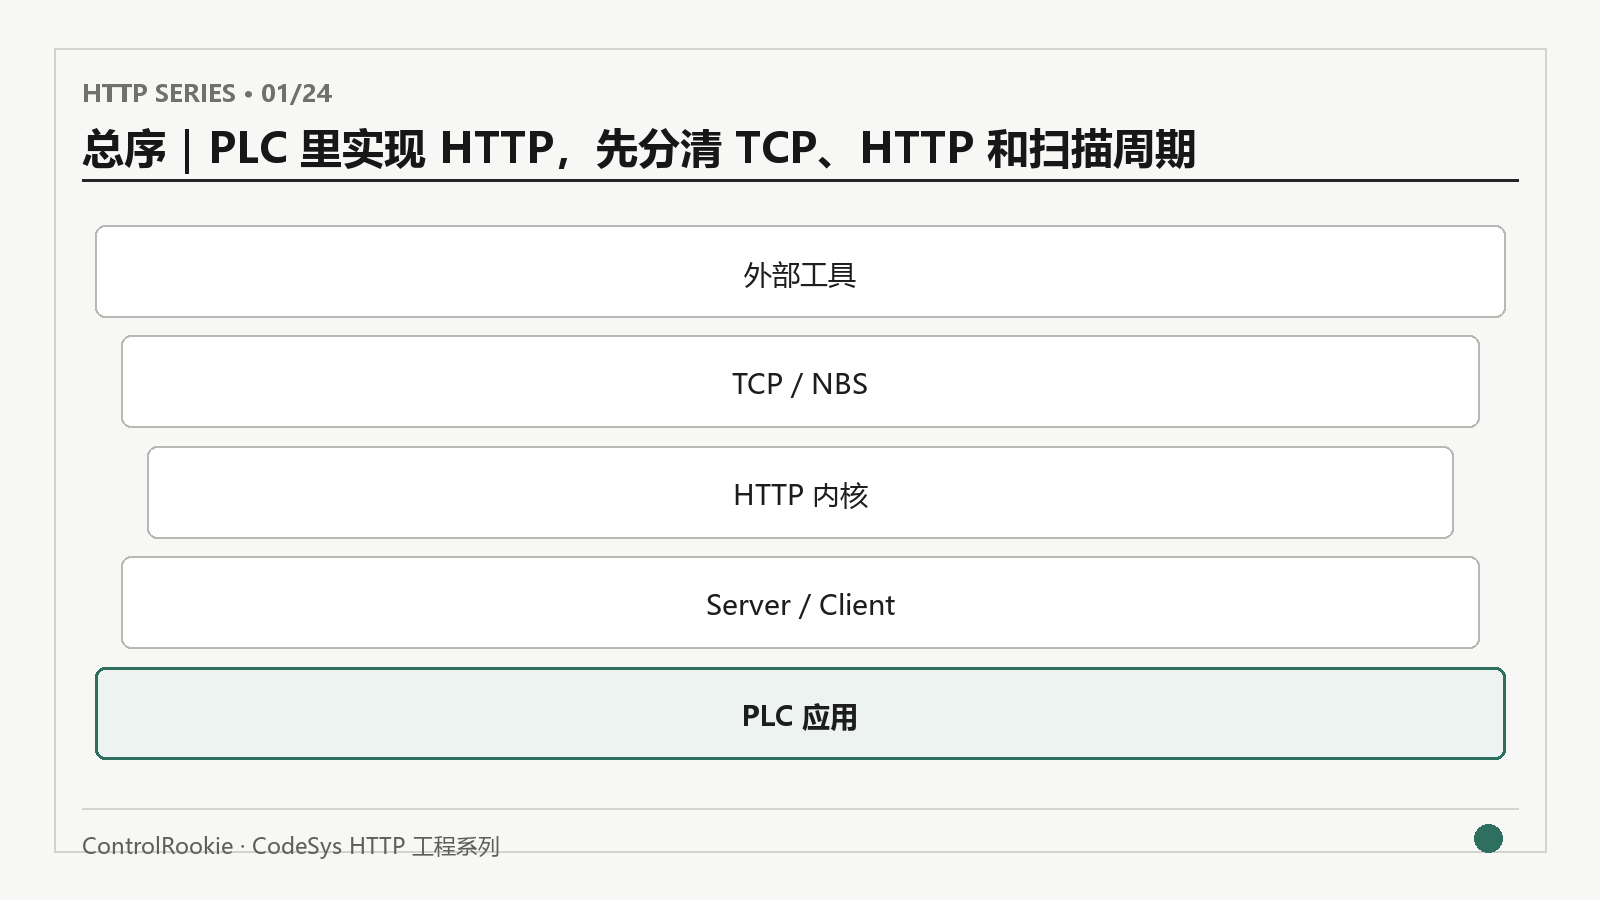
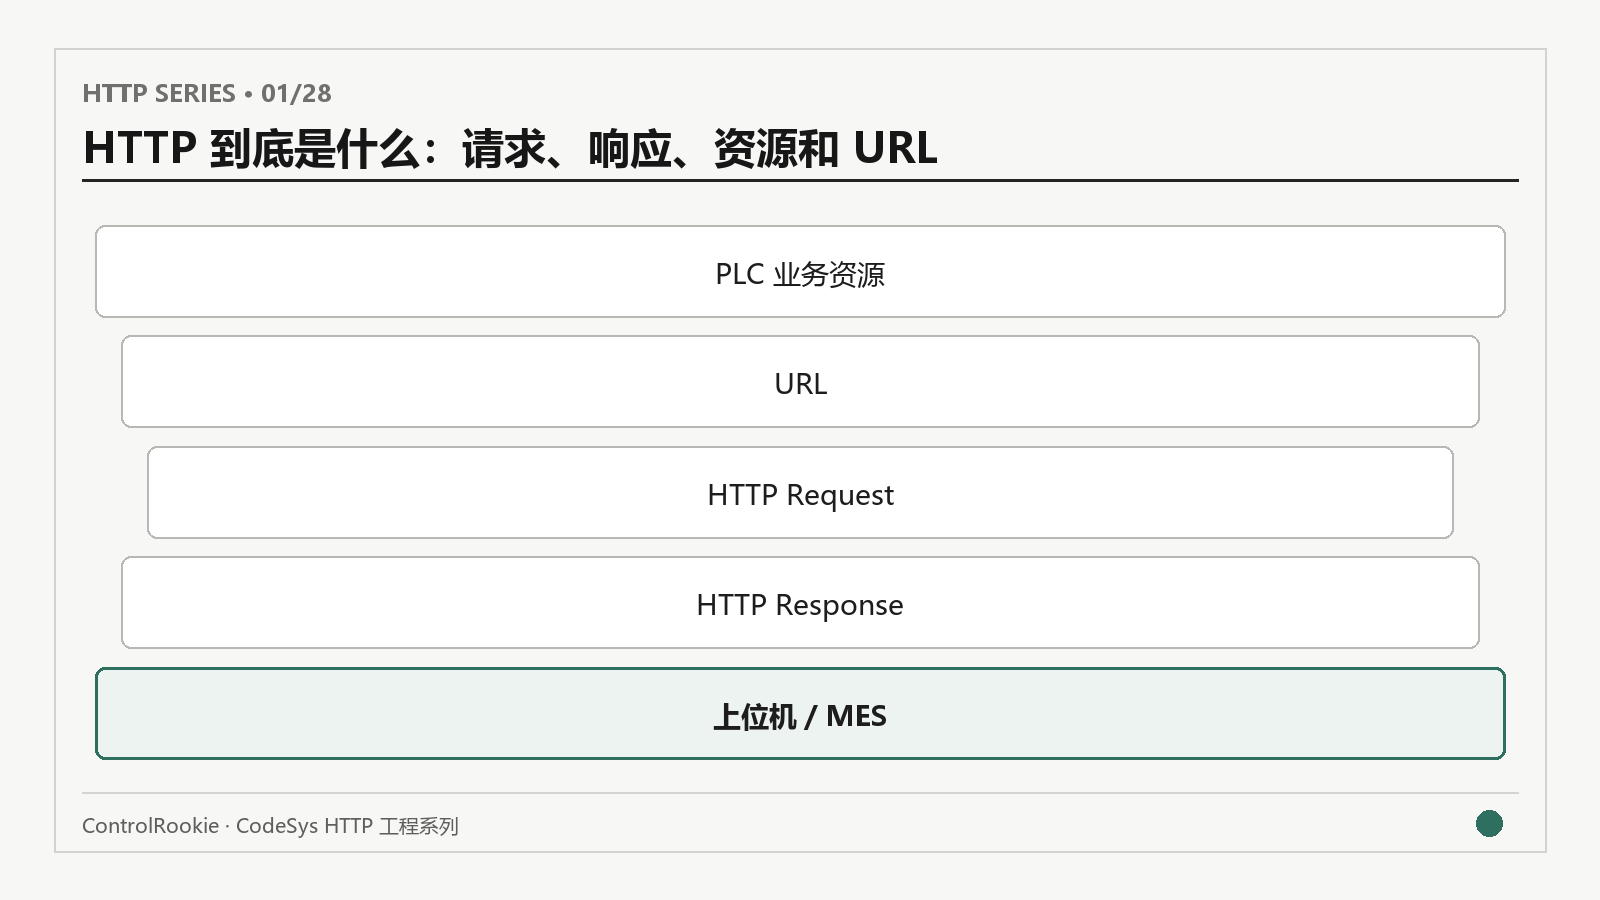
publish: codesys-http-01

diff --git a/articles/codesys-http-foundation-01/index.html b/articles/codesys-http-foundation-01/index.html
@@ -3,8 +3,8 @@
 <head>
   <meta charset="utf-8">
   <meta name="viewport" content="width=device-width, initial-scale=1">
-  <title>第01篇｜总序｜PLC 里实现 HTTP，先分清 TCP、HTTP 和扫描周期 | ControlRookie</title>
-  <meta name="description" content="从 TCP 字节流、HTTP 消息边界、PLC 扫描周期和连接生命周期建立可验证的工程坐标。">
+  <title>HTTP 到底是什么：请求、响应、资源和 URL | ControlRookie</title>
+  <meta name="description" content="从一笔真实的读取与写入事务出发，讲清 Client、Server、资源、URL、请求、响应、方法、状态码、Header 和 Body。">
   <meta name="author" content="ControlRookie">
   <meta name="robots" content="index, follow">
   <meta name="theme-color" content="#050505">
@@ -14,14 +14,14 @@
   <link rel="manifest" href="../../site.webmanifest">
   <meta property="og:type" content="article">
   <meta property="og:site_name" content="ControlRookie">
-  <meta property="og:title" content="第01篇｜总序｜PLC 里实现 HTTP，先分清 TCP、HTTP 和扫描周期">
-  <meta property="og:description" content="从 TCP 字节流、HTTP 消息边界、PLC 扫描周期和连接生命周期建立可验证的工程坐标。">
+  <meta property="og:title" content="HTTP 到底是什么：请求、响应、资源和 URL">
+  <meta property="og:description" content="从一笔真实的读取与写入事务出发，讲清 Client、Server、资源、URL、请求、响应、方法、状态码、Header 和 Body。">
   <meta property="og:url" content="https://benpeng0205.github.io/articles/codesys-http-foundation-01/">
   <meta property="og:image" content="https://benpeng0205.github.io/assets/images/brand/controlrookie-og.png">
   <meta property="og:locale" content="zh_CN">
   <meta name="twitter:card" content="summary_large_image">
-  <meta name="twitter:title" content="第01篇｜总序｜PLC 里实现 HTTP，先分清 TCP、HTTP 和扫描周期">
-  <meta name="twitter:description" content="从 TCP 字节流、HTTP 消息边界、PLC 扫描周期和连接生命周期建立可验证的工程坐标。">
+  <meta name="twitter:title" content="HTTP 到底是什么：请求、响应、资源和 URL">
+  <meta name="twitter:description" content="从一笔真实的读取与写入事务出发，讲清 Client、Server、资源、URL、请求、响应、方法、状态码、Header 和 Body。">
   <meta name="twitter:image" content="https://benpeng0205.github.io/assets/images/brand/controlrookie-og.png">
   <link rel="stylesheet" href="../../styles/site.css">
 </head>
@@ -82,13 +82,13 @@
             <a href="../../index.html#articles-http">基础认知</a>
           </nav>
           <header class="article-hero">
-            <h1>第01篇｜总序｜PLC 里实现 HTTP，先分清 TCP、HTTP 和扫描周期</h1>
+            <h1>HTTP 到底是什么：请求、响应、资源和 URL</h1>
             <div class="article-meta">
               <span>2026-07-18</span>
-              <span>约 5 分钟阅读</span>
-              <span>第1篇/共24篇</span>
+              <span>约 9 分钟阅读</span>
+              <span>第1篇/共28篇</span>
             </div>
-            <p class="article-summary">从 TCP 字节流、HTTP 消息边界、PLC 扫描周期和连接生命周期建立可验证的工程坐标。</p>
+            <p class="article-summary">从一笔真实的读取与写入事务出发，讲清 Client、Server、资源、URL、请求、响应、方法、状态码、Header 和 Body。</p>
           </header>
           <aside class="article-toc" aria-label="文章目录">
             <button class="article-toc-toggle" type="button" aria-expanded="false" aria-controls="articleTocBody">
@@ -97,72 +97,114 @@
             </button>
             <div class="article-toc-body" id="articleTocBody">
               <strong>目录</strong>
-              <ol><li><a href="#section-9f303d09">现场问题</a></li><li><a href="#section-c769c1e4">先给结论</a></li><li><a href="#section-5c8efeeb">把对象和边界分开</a></li><li><a href="#section-d987e293">代码为什么这样组织</a></li><li><a href="#section-8437c6eb">验证路径</a></li><li><a href="#section-c1768cb2">常见误判</a></li><li><a href="#section-297346c3">本篇结论</a></li><li><a href="#section-0fd034f8">系列导航</a></li></ol>
+              <ol><li><a href="#section-0d70135c">适合谁收藏</a></li><li><a href="#section-9f303d09">现场问题</a></li><li><a href="#section-c769c1e4">先给结论</a></li><li><a href="#section-5c8efeeb">把对象和边界分开</a></li><li><a href="#section-08f334f9">把一问一答逐行读完</a></li><li><a href="#section-4af56480">从协议约束到代码职责</a></li><li><a href="#section-29eb6b41">本篇核心源码片段</a></li><li><a href="#section-8437c6eb">验证路径</a></li><li><a href="#section-c1768cb2">常见误判</a></li><li><a href="#section-6f65a855">这一篇你最该记住</a></li><li><a href="#section-0fd034f8">系列导航</a></li></ol>
             </div>
           </aside>
           <div class="article-main">
             <div class="article-content">
-              <blockquote>TCP 连接成功、端口可以访问，只能证明字节通道成立。PLC 要稳定处理 HTTP，还必须把消息边界、扫描周期、连接生命周期和诊断证据一起设计。</blockquote>
-<blockquote>基础认知，第 1/2 篇；主系列第 01/24 篇。</blockquote>
+              <blockquote>先不写 PLC 状态机，也不背术语。从上位机读取设备状态这个需求出发，把 Client、Server、资源、URL、请求、响应、方法、状态码、Header 和 Body 放进同一笔真实对话。</blockquote>
+<h2 id="section-0d70135c">适合谁收藏</h2>
+<ul><li>第一次系统理解 HTTP 的 PLC 工程师。</li><li>已经会调用通信功能块，但分不清 TCP 连通与 HTTP 完整事务的人。</li><li>需要建立后续 Server、Client 学习坐标的读者。</li></ul>
+<hr>
+<blockquote>基础认知，第 1/4 篇；主系列第 01/28 篇。</blockquote>
 <h2 id="section-9f303d09">现场问题</h2>
-<p>现场最常见的误判，是通信工具显示 Connected，PLC 也拿到了若干字节，于是就把功能判定为已经跑通。真正接入浏览器、curl 或上位机后，问题才集中出现：Header 被拆成两次读取，Body 晚几个周期到达，响应没有明确长度，对端一直等待。</p>
-<p>这不是 HTTP 语法知识不足，而是把 TCP 字节流和 HTTP 消息混成了一个对象。PLC 的周期执行模型会把这个错误放大，因为一次事务天然跨越多个扫描周期。</p>
+<p>PLC 里有运行状态、产量和报警记录，上位机需要读取它们。双方当然可以私下约定 <code>READ_STATUS</code> 和 <code>1,1250,0</code>，但一旦增加查询条件、写入参数、错误结果和不同数据格式，这套私有字符串就会迅速失去边界。</p>
+<p>HTTP 解决的不是“怎样控制 PLC”，而是不同程序怎样用统一格式描述一件事：请求方要操作哪个资源、准备做什么、携带了什么内容；响应方是否处理成功、返回了什么、消息到哪里结束。</p>
 <h2 id="section-c769c1e4">先给结论</h2>
-<p>本系列只把完整且可验证的 HTTP 事务交给应用层。NBS 负责 TCP，协议内核负责边界，Server 和 Client 负责各自生命周期，业务程序只处理已经完成的请求或响应。</p>
-<figure><img src="../../assets/articles/codesys-http-foundation-01/第01篇_核心架构图.png" alt="总序｜PLC 里实现 HTTP，先分清 TCP、HTTP 和扫描周期"><figcaption>总序｜PLC 里实现 HTTP，先分清 TCP、HTTP 和扫描周期</figcaption></figure>
-<p>这张图只压缩本篇的判断路径。读图时先找输入边界，再看状态怎样推进，最后确认哪个输出能够作为验收证据。</p>
+<p>HTTP 是应用层的请求/响应协议。Client 主动发送一条完整请求，Server 针对一个资源返回一条完整响应；URL 标识资源，方法表达操作意图，状态码表达处理结果，Header 描述消息，Body 承载内容。</p>
+<figure><img src="../../assets/articles/codesys-http-foundation-01/第01篇_核心架构图.png" alt="HTTP 到底是什么：请求、响应、资源和 URL"><figcaption>HTTP 到底是什么：请求、响应、资源和 URL</figcaption></figure>
+<h3 id="section-a3177d68">读图重点</h3>
+<p>这张图只压缩本篇的判断路径。读图时先找“Client / Server”对应的输入边界，再沿着“状态码、Header、可选 Body”检查状态怎样推进，最后用“说明处理结果以及返回什么”确认输出是否已经形成验收证据。</p>
 <h2 id="section-5c8efeeb">把对象和边界分开</h2>
 <div class="article-table-wrap"><table>
 <thead><tr><th>对象或阶段</th><th>工程职责</th><th>现场观察点</th></tr></thead>
 <tbody>
-<tr><td>TCP/NBS</td><td>连接、监听、Read、Write、Close</td><td>句柄、ready、NBS error</td></tr>
-<tr><td>HTTP 内核</td><td>start-line、Header、Body 边界</td><td>解析状态、长度、协议错误</td></tr>
-<tr><td>角色状态机</td><td>Server 接入或 Client 主动请求</td><td>状态、超时、连接策略</td></tr>
-<tr><td>应用层</td><td>消费完整请求或响应</td><td>业务结果和计数</td></tr>
+<tr><td>Client / Server</td><td>发起请求 / 返回响应</td><td>同一台 PLC 可以同时承担两种角色</td></tr>
+<tr><td>Resource / URL</td><td>被操作的对象 / 对象地址</td><td><code>/api/status</code> 标识设备状态资源</td></tr>
+<tr><td>Request</td><td>方法、目标、Header、可选 Body</td><td>说明想做什么以及携带什么</td></tr>
+<tr><td>Response</td><td>状态码、Header、可选 Body</td><td>说明处理结果以及返回什么</td></tr>
 </tbody></table></div>
-<h2 id="section-d987e293">代码为什么这样组织</h2>
-<p>工程里把最大报文、Header、Body、连接槽位、读写分片和超时全部做成显式常量。它们不是随手填写的数字，而是协议栈的资源边界。以当前实现为例，消息上限 4095 字节、Header 上限 2047 字节、Body 上限 1023 字节、Server 最多 4 个连接槽位。</p>
-<p>这些边界决定了教程的结论不能无限外推。本系列讨论明文 HTTP/1.1、Content-Length、入站 chunked、短连接和受控顺序 keep-alive；不把 HTTPS、认证、HTTP/2、pipeline 或连接池包装成已经实现的能力。</p>
-<p>下面是与本篇直接相关的真实 ST 连续片段。代码保持源文件原文，不做重写，不用伪代码替代。</p>
-<div class="code-card"><small>iecst</small><pre><code>VAR_GLOBAL CONSTANT
-    cnDefaultServerPort   : UINT := 8088;                  // 全局协议常量。
-    cnMaxClientSlots      : UINT := 4;                     // 全局协议常量。
-    cnRxBufferSize        : UINT := 4095;                  // 全局协议常量。
-    cnTxBufferSize        : UINT := 4095;                  // 全局协议常量。
-    cnMaxMessageSize      : UINT := 4095;                  // 全局协议常量。
-    cnMaxHeaderSize       : UINT := 2047;                  // 全局协议常量。
-    cnMaxBodySize         : UINT := 1023;                  // 全局协议常量。
-    cnMaxTargetLen        : UINT := 255;                   // 全局协议常量。
-    cnMaxHostLen          : UINT := 128;                   // 全局协议常量。
-    cnMaxHeaderValueLen   : UINT := 255;                   // 全局协议常量。
-    cnMaxChunkLineLen     : UINT := 32;                    // 全局协议常量。
-    cnTcpConnectTimeoutUs : UDINT := 5000000;              // 全局协议常量。
-    cnClientTimeoutMs     : UDINT := 8000;                 // 全局协议常量。
-    cnServerConnectionMs  : UDINT := 8000;                 // 全局协议常量。
-    cnWriteTimeout        : TIME := T#5S;                  // 全局协议常量。
-    cnTcpReadChunkSize    : UINT := 240;                   // NBS 单次 TCP_Read 字节数，避开部分运行时 255 字节边界。
-    cnTcpWriteChunkSize   : UINT := 240;                   // NBS 单次 TCP_Write 字节数，大响应按 TCP 字节流分批发送。
-    cnTcpReadMaxErrorCount: UINT := 3;                     // TCP_Read 连续错误滤波次数，避免大报文半包接收被瞬时读错误误杀。
-    cnDefaultContentType  : STRING(32) := &#x27;text/plain&#x27;;    // 全局协议常量。
-    cnDefaultPath         : STRING(8) := &#x27;/&#x27;;              // 全局协议常量。
-END_VAR</code></pre></div>
-<p>源码阅读时不要只找某个 TRUE。先确认输入是否被锁存，再看状态和长度怎样变化，最后检查错误出口是否保留了足够诊断信息。</p>
+<h2 id="section-08f334f9">把一问一答逐行读完</h2>
+<p>上位机读取 PLC 状态时，可以发送：</p>
+<div class="code-card"><small>http</small><pre><code>GET /api/status HTTP/1.1
+Host: 192.168.1.20:8088
+Connection: close
+</code></pre></div>
+<p>第一行表示“使用 HTTP/1.1，以 GET 方式读取 <code>/api/status</code> 资源”。<code>Host</code> 指明本次请求对应的主机；空行表示 Header 到此结束。这个 GET 没有 Body。</p>
+<p>PLC 返回：</p>
+<div class="code-card"><small>http</small><pre><code>HTTP/1.1 200 OK
+Content-Type: text/plain
+Content-Length: 7
+Connection: close
+
+running</code></pre></div>
+<p>状态码 200 表示这一条请求已经成功处理。<code>Content-Type</code> 说明 Body 是普通文本，<code>Content-Length: 7</code> 说明 Body 正好是 7 个字节。<code>running</code> 才是返回内容。</p>
+<p>写入设定值时，消息会多出 Body：</p>
+<div class="code-card"><small>http</small><pre><code>POST /api/setpoint HTTP/1.1
+Host: 192.168.1.20:8088
+Content-Type: application/json
+Content-Length: 15
+Connection: close
+
+{&quot;value&quot;:125.5}</code></pre></div>
+<p>JSON 只是 Body 的一种数据格式。TCP 负责传字节，HTTP 负责定义请求和响应，JSON 负责表示 Body 内的数据，PLC 应用负责决定这份数据能否改变设定值。四者不能互相替代。</p>
+<h2 id="section-4af56480">从协议约束到代码职责</h2>
+<h3 id="section-6ca2a2b2">协议约束</h3>
+<p>HTTP 是应用层的请求/响应协议。Client 主动发送一条完整请求，Server 针对一个资源返回一条完整响应；URL 标识资源，方法表达操作意图，状态码表达处理结果，Header 描述消息，Body 承载内容。 这条结论先限定消息什么时候成立，再限定哪个角色可以消费结果。若绕过协议边界直接驱动业务，半包、超时、重复执行和连接残留就会进入应用层。</p>
+<h3 id="section-7c6b9db9">工程抽象</h3>
+<p>请求第一行由方法、请求目标和 HTTP 版本组成，例如 <code>GET /api/status HTTP/1.1</code>。Header 结束后必须有空行；如果请求带 Body，消息还要用 Content-Length 或 Transfer-Encoding 说明 Body 边界。响应第一行改为版本、状态码和原因短语，例如 <code>HTTP/1.1 200 OK</code>。</p>
+<p>状态码不是网络状态。TCP 已连接后仍可能收到 400，说明通道成立但请求格式不合法；也可能收到 404，说明请求合法但资源不存在。只有把传输、协议和业务结果分开，后面的 PLC 状态机才不会只剩一个含义模糊的 <code>bError</code>。</p>
+<ul><li><strong>Client / Server</strong>：工程职责是“发起请求 / 返回响应”。它不能只停留在命名层面，运行时必须能通过“同一台 PLC 可以同时承担两种角色”观察到输入、状态或结果；否则这一层即使有代码，也没有形成可验证边界。</li><li><strong>Resource / URL</strong>：工程职责是“被操作的对象 / 对象地址”。它不能只停留在命名层面，运行时必须能通过“<code>/api/status</code> 标识设备状态资源”观察到输入、状态或结果；否则这一层即使有代码，也没有形成可验证边界。</li><li><strong>Request</strong>：工程职责是“方法、目标、Header、可选 Body”。它不能只停留在命名层面，运行时必须能通过“说明想做什么以及携带什么”观察到输入、状态或结果；否则这一层即使有代码，也没有形成可验证边界。</li><li><strong>Response</strong>：工程职责是“状态码、Header、可选 Body”。它不能只停留在命名层面，运行时必须能通过“说明处理结果以及返回什么”观察到输入、状态或结果；否则这一层即使有代码，也没有形成可验证边界。</li></ul>
+<h3 id="section-3c2115b3">程序单元</h3>
+<p>本篇主证据来自 <code>ST_HttpRequest.st</code> 中以 <code>TYPE ST_HttpRequest</code> 为定位点的连续源码。这里不是为了展示语法，而是把协议约束落到确定程序单元：输入先进入结构体或缓冲区，状态机只在本周期处理可确认的部分，长度和结束条件决定能否前进，错误码与指标负责把失败原因带出对象边界。这样一来，“HTTP 管理请求与响应，不直接管理 PLC 变量。”可以在代码、在线变量和外部报文之间逐项对照，而不是依赖经验猜测。</p>
+<h2 id="section-29eb6b41">本篇核心源码片段</h2>
+<p>下面两段代码来自同一个真实文件 <code>ST_HttpRequest.st</code>，以 <code>TYPE ST_HttpRequest</code> 为中心连续截取，没有改写变量、删除分支或用伪代码替代。第一段用于确认入口与前置条件，第二段用于确认状态、边界和输出。核对时重点看“发起请求 / 返回响应”怎样进入对象，以及“说明处理结果以及返回什么”怎样证明本次处理已经结束。若两段之间的连续关系无法解释“Client 与 Server 是事务角色，不是设备的永久身份。”，就不能把局部代码截图当成实现证据。</p>
+<h3 id="section-602aff4b">片段一：入口、声明与前置条件</h3>
+<div class="code-card"><small>iecst</small><pre><code>TYPE ST_HttpRequest :
+STRUCT
+    eMethod           : E_HttpMethod := E_HttpMethod.iUnknown;
+    sMethod           : STRING(16) := &#x27;&#x27;;
+    sTarget           : STRING(GVL_Http.cnMaxTargetLen) := &#x27;&#x27;;
+    sVersion          : STRING(16) := &#x27;HTTP/1.1&#x27;;
+    sHost             : STRING(GVL_Http.cnMaxHostLen) := &#x27;&#x27;;
+    sContentType      : STRING(96) := &#x27;&#x27;;
+    sAuthorization    : STRING(160) := &#x27;&#x27;;</code></pre></div>
+<p>这一段先回答对象在什么输入和状态下开始工作。阅读时要核对变量的初值、长度上限和启动条件，不能只看某个布尔量是否变成 TRUE。</p>
+<h3 id="section-b9383c27">片段二：状态推进、边界与输出</h3>
+<div class="code-card"><small>iecst</small><pre><code>    sAdditionalHeader : STRING(GVL_Http.cnMaxHeaderSize) := &#x27;&#x27;;
+    sRawHeaders       : STRING(GVL_Http.cnMaxHeaderSize) := &#x27;&#x27;;
+    sBody             : STRING(GVL_Http.cnMaxBodySize) := &#x27;&#x27;;
+    bHasContentLength : BOOL := FALSE;
+    bTransferChunked  : BOOL := FALSE;
+    bConnectionClose  : BOOL := FALSE;
+    udiContentLength  : UDINT := 0;
+END_STRUCT
+END_TYPE</code></pre></div>
+<p>第二段继续展示同一连续源码范围。把它与第一段合起来，才能判断输入怎样被锁存、状态何时推进、边界何时满足，以及错误出口是否保留了足够诊断信息。</p>
 <h2 id="section-8437c6eb">验证路径</h2>
 <div class="article-table-wrap"><table>
 <thead><tr><th>场景</th><th>操作</th><th>通过口径</th></tr></thead>
 <tbody>
-<tr><td>字节层</td><td>确认监听句柄或主动连接句柄有效</td><td>不能据此宣布 HTTP 成功</td></tr>
-<tr><td>协议层</td><td>确认 Header 和 Body 边界完整</td><td>状态机才能进入完成态</td></tr>
-<tr><td>外部端</td><td>看到合法状态码、Header 和 Body</td><td>证明对端认可报文</td></tr>
-<tr><td>PLC 在线量</td><td>状态、错误、计数和快照一致</td><td>证明工程侧可诊断</td></tr>
+<tr><td>读取资源</td><td>手写 GET <code>/api/status</code></td><td>能指出方法、目标、Host 和空行</td></tr>
+<tr><td>写入内容</td><td>手写带 JSON Body 的 POST</td><td>Content-Type 与 Content-Length 正确</td></tr>
+<tr><td>解释响应</td><td>区分 200、400、404、500</td><td>不再把状态码当 TCP 状态</td></tr>
+<tr><td>角色判断</td><td>分别描述 PLC 主动访问与被访问</td><td>能正确判断 Client 和 Server</td></tr>
 </tbody></table></div>
-<p>验证结论分为三层：源码能够证明实现意图，离线用例能够证明确定输入下的边界行为，真实通信能够证明目标运行时与外部工具之间确实闭环。三层证据不能互相替代。</p>
+<h3 id="1">场景 1：读取资源</h3>
+<p>执行“手写 GET <code>/api/status</code>”前，先清理上一笔事务的完成脉冲、错误锁存和接收残留，再记录起始状态与计数。操作后同时观察外部报文、角色状态机和诊断量；只有三条证据共同指向“能指出方法、目标、Host 和空行”，这一场景才算通过。若只看到外部结果而内部状态未收口，应继续检查资源回收；若内部 Done 已出现而报文不完整，应回到消息边界重新取证。</p>
+<h3 id="2">场景 2：写入内容</h3>
+<p>执行“手写带 JSON Body 的 POST”前，先清理上一笔事务的完成脉冲、错误锁存和接收残留，再记录起始状态与计数。操作后同时观察外部报文、角色状态机和诊断量；只有三条证据共同指向“Content-Type 与 Content-Length 正确”，这一场景才算通过。若只看到外部结果而内部状态未收口，应继续检查资源回收；若内部 Done 已出现而报文不完整，应回到消息边界重新取证。</p>
+<h3 id="3">场景 3：解释响应</h3>
+<p>执行“区分 200、400、404、500”前，先清理上一笔事务的完成脉冲、错误锁存和接收残留，再记录起始状态与计数。操作后同时观察外部报文、角色状态机和诊断量；只有三条证据共同指向“不再把状态码当 TCP 状态”，这一场景才算通过。若只看到外部结果而内部状态未收口，应继续检查资源回收；若内部 Done 已出现而报文不完整，应回到消息边界重新取证。</p>
+<h3 id="4">场景 4：角色判断</h3>
+<p>执行“分别描述 PLC 主动访问与被访问”前，先清理上一笔事务的完成脉冲、错误锁存和接收残留，再记录起始状态与计数。操作后同时观察外部报文、角色状态机和诊断量；只有三条证据共同指向“能正确判断 Client 和 Server”，这一场景才算通过。若只看到外部结果而内部状态未收口，应继续检查资源回收；若内部 Done 已出现而报文不完整，应回到消息边界重新取证。</p>
 <h2 id="section-c1768cb2">常见误判</h2>
-<ul><li>把端口可连接写成 HTTP 协议栈已经通过，忽略消息边界和响应证据。</li><li>只在外部工具看结果，不核对 PLC 状态、错误码和计数是否同步变化。</li><li>把当前 4095 字节消息上限当成 HTTP 标准限制，而不是本工程资源取舍。</li></ul>
-<h2 id="section-297346c3">本篇结论</h2>
-<ul><li>连接成功不等于 HTTP 成功。</li><li>PLC 必须跨周期累积并判断消息边界。</li><li>任何发布结论都要同时给出外部证据和 PLC 在线证据。</li></ul>
+<ul><li>把 HTTP 说成一种传输方式，没有说明它组织的是请求和响应。</li><li>把 Client 和 Server 当成设备类型，而不是一笔事务中的角色。</li><li>背出 GET 和 200，却说不清资源、Header、Body 和状态码怎样组成完整消息。</li></ul>
+<p>这些误判的共同点，是拿一个局部现象替代完整事务。定位时必须回到本篇的输入、状态、边界和输出四个坐标，并用相同输入完成回归。</p>
+<h2 id="section-6f65a855">这一篇你最该记住</h2>
+<ul><li>HTTP 管理请求与响应，不直接管理 PLC 变量。</li><li>URL、方法、状态码、Header 和 Body 各有职责。</li><li>Client 与 Server 是事务角色，不是设备的永久身份。</li></ul>
 <h2 id="section-0fd034f8">系列导航</h2>
-<ul><li>系列：CodeSys HTTP 系列教程，第 01/24 篇。</li><li>阶段：基础认知，职责线位置 1/2。</li><li>上一篇：无，这是系列第一篇。</li><li>下一篇：第02篇</li><li>发布顺序：基础认知 -&gt; Server -&gt; Client -&gt; 完整源码加更 -&gt; 综合收束。</li></ul>
+<ul><li>系列：CodeSys HTTP 系列教程，第 01/28 篇。</li><li>阶段：基础认知，职责线位置 1/4。</li><li>上一篇：无，这是系列第一篇。</li><li>下一篇：第02篇</li><li>发布顺序：基础认知 -&gt; Server -&gt; Client -&gt; 完整源码加更 -&gt; 综合收束。</li></ul>
             </div>
             <nav class="article-series-nav" aria-label="系列导航">
               <a class="series-nav-card" href="../../index.html#articles-http">

diff --git a/content/articles-data.js b/content/articles-data.js
@@ -2387,12 +2387,12 @@ window.CONTROLROOKIE_ARTICLES = [
       "en": "Article"
     },
     "title": {
-      "zh": "第01篇｜总序｜PLC 里实现 HTTP，先分清 TCP、HTTP 和扫描周期",
-      "en": "第01篇｜总序｜PLC 里实现 HTTP，先分清 TCP、HTTP 和扫描周期"
+      "zh": "HTTP 到底是什么：请求、响应、资源和 URL",
+      "en": "HTTP 到底是什么：请求、响应、资源和 URL"
     },
     "copy": {
-      "zh": "从 TCP 字节流、HTTP 消息边界、PLC 扫描周期和连接生命周期建立可验证的工程坐标。",
-      "en": "从 TCP 字节流、HTTP 消息边界、PLC 扫描周期和连接生命周期建立可验证的工程坐标。"
+      "zh": "从一笔真实的读取与写入事务出发，讲清 Client、Server、资源、URL、请求、响应、方法、状态码、Header 和 Body。",
+      "en": "从一笔真实的读取与写入事务出发，讲清 Client、Server、资源、URL、请求、响应、方法、状态码、Header 和 Body。"
     },
     "href": "articles/codesys-http-foundation-01/index.html",
     "category": {
@@ -2423,8 +2423,8 @@ window.CONTROLROOKIE_ARTICLES = [
       "en": "Foundation"
     },
     "progress": {
-      "zh": "第1篇/共24篇",
-      "en": "Part 1 / 24"
+      "zh": "第1篇/共28篇",
+      "en": "Part 1 / 28"
     },
     "status": {
       "zh": "官网全文 / 第1篇",
@@ -2436,8 +2436,8 @@ window.CONTROLROOKIE_ARTICLES = [
     },
     "date": "2026-07-18",
     "readingTime": {
-      "zh": "约 5 分钟阅读",
-      "en": "5 min read"
+      "zh": "约 9 分钟阅读",
+      "en": "9 min read"
     },
     "tags": [
       "HTTP",
@@ -2445,10 +2445,10 @@ window.CONTROLROOKIE_ARTICLES = [
       "PLC通信",
       "ControlRookie"
     ],
-    "keywords": "HTTP CODESYS 基础认知 基础认知 第01篇｜总序｜PLC 里实现 HTTP，先分清 TCP、HTTP 和扫描周期 HTTP CodeSys PLC通信 ControlRookie",
+    "keywords": "HTTP CODESYS 基础认知 基础认知 HTTP 到底是什么：请求、响应、资源和 URL HTTP CodeSys PLC通信 ControlRookie",
     "order": 1,
     "contentId": "codesys-http-01",
     "publishAt": "2026-07-18T19:00:00+08:00",
-    "source": "第01篇｜总序｜PLC 里实现 HTTP，先分清 TCP、HTTP 和扫描周期.md"
+    "source": "第01篇_HTTP 到底是什么：请求、响应、资源和 URL.md"
   }
 ];